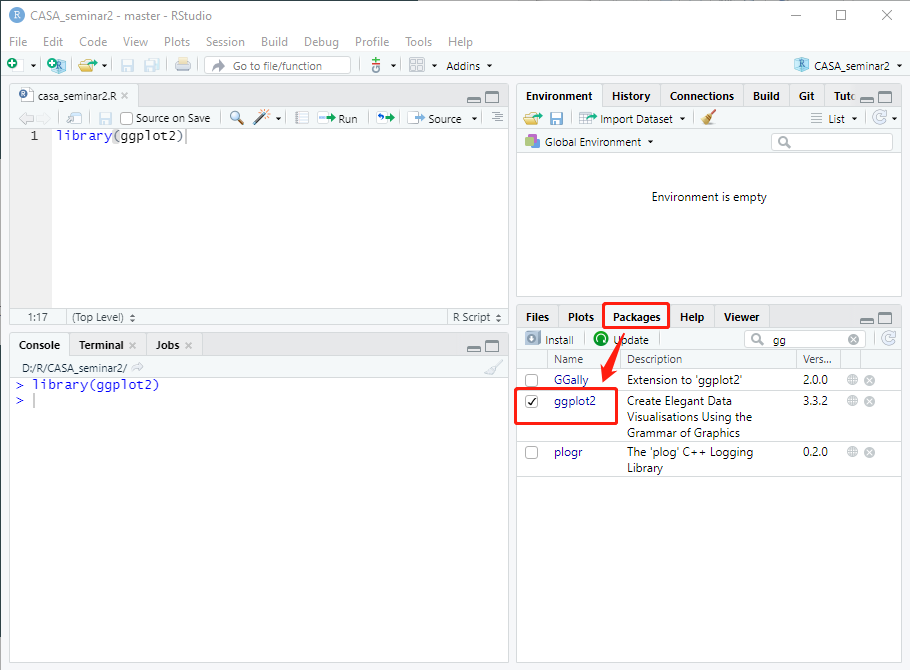
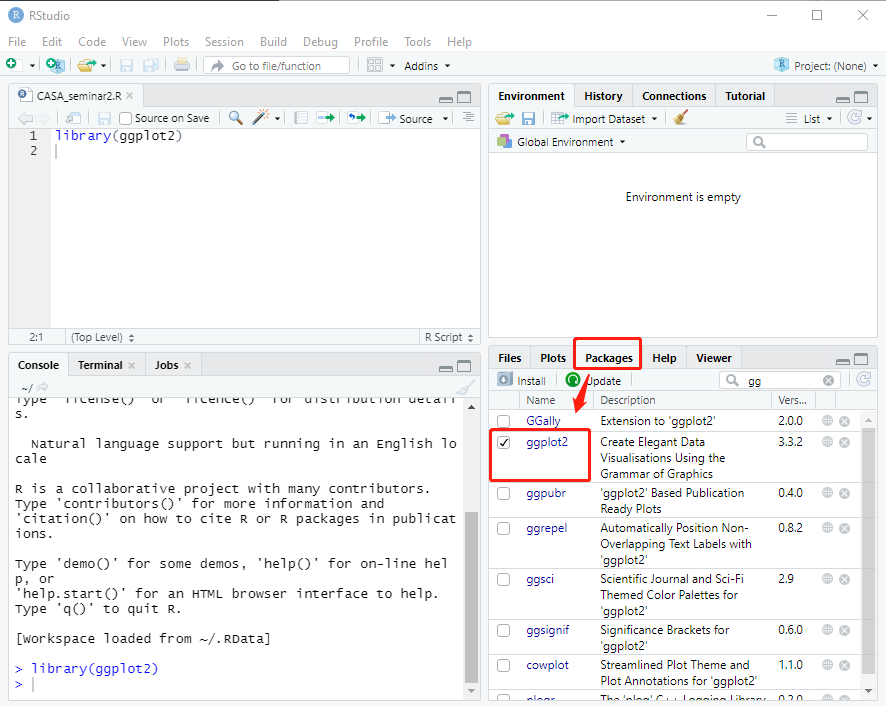
final2

diff --git a/docs/getting-started.html b/docs/getting-started.html
@@ -144,8 +144,8 @@ code span.wa { color: #60a0b0; font-weight: bold; font-style: italic; } /* Warni
 </ul></li>
 <li class="chapter" data-level="3" data-path="recap.html"><a href="recap.html"><i class="fa fa-check"></i><b>3</b> Recap</a></li>
 <li class="chapter" data-level="4" data-path="getting-started.html"><a href="getting-started.html"><i class="fa fa-check"></i><b>4</b> Getting started</a><ul>
-<li class="chapter" data-level="4.1" data-path="getting-started.html"><a href="getting-started.html#installing-ggplot2-package"><i class="fa fa-check"></i><b>4.1</b> Installing ggplot2 package</a></li>
-<li class="chapter" data-level="4.2" data-path="getting-started.html"><a href="getting-started.html#loading-ggplot2-package"><i class="fa fa-check"></i><b>4.2</b> Loading ggplot2 package</a></li>
+<li class="chapter" data-level="4.1" data-path="getting-started.html"><a href="getting-started.html#installing-packages"><i class="fa fa-check"></i><b>4.1</b> Installing packages</a></li>
+<li class="chapter" data-level="4.2" data-path="getting-started.html"><a href="getting-started.html#loading-packages"><i class="fa fa-check"></i><b>4.2</b> Loading packages</a></li>
 <li class="chapter" data-level="4.3" data-path="getting-started.html"><a href="getting-started.html#dataset"><i class="fa fa-check"></i><b>4.3</b> Dataset</a></li>
 </ul></li>
 <li class="chapter" data-level="5" data-path="graphics-with-ggplot2.html"><a href="graphics-with-ggplot2.html"><i class="fa fa-check"></i><b>5</b> Graphics with ggplot2</a><ul>
@@ -200,19 +200,19 @@ code span.wa { color: #60a0b0; font-weight: bold; font-style: italic; } /* Warni
             <section class="normal" id="section-">
 <div id="getting-started" class="section level1">
 <h1><span class="header-section-number">4</span> Getting started</h1>
-<div id="installing-ggplot2-package" class="section level2">
-<h2><span class="header-section-number">4.1</span> Installing ggplot2 package</h2>
-<p>If you have installed ggplot2 package already, you can jump to the next step.</p>
+<div id="installing-packages" class="section level2">
+<h2><span class="header-section-number">4.1</span> Installing packages</h2>
+<p>If you have installed ggplot2 and ggpubr packages already, you can jump to the next step.</p>
 <div class="sourceCode" id="cb1"><pre class="sourceCode r"><code class="sourceCode r"><span id="cb1-1"><a href="getting-started.html#cb1-1"></a><span class="co">#install.packages(&quot;ggplot2&quot;)</span></span>
 <span id="cb1-2"><a href="getting-started.html#cb1-2"></a><span class="co">#install.packages(&quot;ggpubr&quot;)</span></span></code></pre></div>
 </div>
-<div id="loading-ggplot2-package" class="section level2">
-<h2><span class="header-section-number">4.2</span> Loading ggplot2 package</h2>
+<div id="loading-packages" class="section level2">
+<h2><span class="header-section-number">4.2</span> Loading packages</h2>
 <p>Load the packages for today’s seminar.</p>
-<div class="sourceCode" id="cb2"><pre class="sourceCode r"><code class="sourceCode r"><span id="cb2-1"><a href="getting-started.html#cb2-1"></a><span class="co">#load the package for this seminar</span></span>
+<div class="sourceCode" id="cb2"><pre class="sourceCode r"><code class="sourceCode r"><span id="cb2-1"><a href="getting-started.html#cb2-1"></a><span class="co">#load the packages for this seminar</span></span>
 <span id="cb2-2"><a href="getting-started.html#cb2-2"></a><span class="kw">library</span>(ggplot2)</span>
 <span id="cb2-3"><a href="getting-started.html#cb2-3"></a><span class="kw">library</span>(ggpubr)</span></code></pre></div>
-<strong>Note:</strong> Once you have loaded the package successfully, there will be a check mark display before the package under your Packages tab at the bottom right pane.
+<strong>Note:</strong> Once you have loaded the package successfully, there will be a check mark display before the package under your packages tab at the bottom right pane.
 <center>
 <img src="loadpackage.png" />
 </center>

diff --git a/docs/answer.html b/docs/answer.html
@@ -144,8 +144,8 @@ code span.wa { color: #60a0b0; font-weight: bold; font-style: italic; } /* Warni
 </ul></li>
 <li class="chapter" data-level="3" data-path="recap.html"><a href="recap.html"><i class="fa fa-check"></i><b>3</b> Recap</a></li>
 <li class="chapter" data-level="4" data-path="getting-started.html"><a href="getting-started.html"><i class="fa fa-check"></i><b>4</b> Getting started</a><ul>
-<li class="chapter" data-level="4.1" data-path="getting-started.html"><a href="getting-started.html#installing-ggplot2-package"><i class="fa fa-check"></i><b>4.1</b> Installing ggplot2 package</a></li>
-<li class="chapter" data-level="4.2" data-path="getting-started.html"><a href="getting-started.html#loading-ggplot2-package"><i class="fa fa-check"></i><b>4.2</b> Loading ggplot2 package</a></li>
+<li class="chapter" data-level="4.1" data-path="getting-started.html"><a href="getting-started.html#installing-packages"><i class="fa fa-check"></i><b>4.1</b> Installing packages</a></li>
+<li class="chapter" data-level="4.2" data-path="getting-started.html"><a href="getting-started.html#loading-packages"><i class="fa fa-check"></i><b>4.2</b> Loading packages</a></li>
 <li class="chapter" data-level="4.3" data-path="getting-started.html"><a href="getting-started.html#dataset"><i class="fa fa-check"></i><b>4.3</b> Dataset</a></li>
 </ul></li>
 <li class="chapter" data-level="5" data-path="graphics-with-ggplot2.html"><a href="graphics-with-ggplot2.html"><i class="fa fa-check"></i><b>5</b> Graphics with ggplot2</a><ul>

diff --git a/docs/challenges.html b/docs/challenges.html
@@ -144,8 +144,8 @@ code span.wa { color: #60a0b0; font-weight: bold; font-style: italic; } /* Warni
 </ul></li>
 <li class="chapter" data-level="3" data-path="recap.html"><a href="recap.html"><i class="fa fa-check"></i><b>3</b> Recap</a></li>
 <li class="chapter" data-level="4" data-path="getting-started.html"><a href="getting-started.html"><i class="fa fa-check"></i><b>4</b> Getting started</a><ul>
-<li class="chapter" data-level="4.1" data-path="getting-started.html"><a href="getting-started.html#installing-ggplot2-package"><i class="fa fa-check"></i><b>4.1</b> Installing ggplot2 package</a></li>
-<li class="chapter" data-level="4.2" data-path="getting-started.html"><a href="getting-started.html#loading-ggplot2-package"><i class="fa fa-check"></i><b>4.2</b> Loading ggplot2 package</a></li>
+<li class="chapter" data-level="4.1" data-path="getting-started.html"><a href="getting-started.html#installing-packages"><i class="fa fa-check"></i><b>4.1</b> Installing packages</a></li>
+<li class="chapter" data-level="4.2" data-path="getting-started.html"><a href="getting-started.html#loading-packages"><i class="fa fa-check"></i><b>4.2</b> Loading packages</a></li>
 <li class="chapter" data-level="4.3" data-path="getting-started.html"><a href="getting-started.html#dataset"><i class="fa fa-check"></i><b>4.3</b> Dataset</a></li>
 </ul></li>
 <li class="chapter" data-level="5" data-path="graphics-with-ggplot2.html"><a href="graphics-with-ggplot2.html"><i class="fa fa-check"></i><b>5</b> Graphics with ggplot2</a><ul>

diff --git a/docs/graphics-with-ggplot2.html b/docs/graphics-with-ggplot2.html
@@ -144,8 +144,8 @@ code span.wa { color: #60a0b0; font-weight: bold; font-style: italic; } /* Warni
 </ul></li>
 <li class="chapter" data-level="3" data-path="recap.html"><a href="recap.html"><i class="fa fa-check"></i><b>3</b> Recap</a></li>
 <li class="chapter" data-level="4" data-path="getting-started.html"><a href="getting-started.html"><i class="fa fa-check"></i><b>4</b> Getting started</a><ul>
-<li class="chapter" data-level="4.1" data-path="getting-started.html"><a href="getting-started.html#installing-ggplot2-package"><i class="fa fa-check"></i><b>4.1</b> Installing ggplot2 package</a></li>
-<li class="chapter" data-level="4.2" data-path="getting-started.html"><a href="getting-started.html#loading-ggplot2-package"><i class="fa fa-check"></i><b>4.2</b> Loading ggplot2 package</a></li>
+<li class="chapter" data-level="4.1" data-path="getting-started.html"><a href="getting-started.html#installing-packages"><i class="fa fa-check"></i><b>4.1</b> Installing packages</a></li>
+<li class="chapter" data-level="4.2" data-path="getting-started.html"><a href="getting-started.html#loading-packages"><i class="fa fa-check"></i><b>4.2</b> Loading packages</a></li>
 <li class="chapter" data-level="4.3" data-path="getting-started.html"><a href="getting-started.html#dataset"><i class="fa fa-check"></i><b>4.3</b> Dataset</a></li>
 </ul></li>
 <li class="chapter" data-level="5" data-path="graphics-with-ggplot2.html"><a href="graphics-with-ggplot2.html"><i class="fa fa-check"></i><b>5</b> Graphics with ggplot2</a><ul>

diff --git a/docs/index.html b/docs/index.html
@@ -144,8 +144,8 @@ code span.wa { color: #60a0b0; font-weight: bold; font-style: italic; } /* Warni
 </ul></li>
 <li class="chapter" data-level="3" data-path="recap.html"><a href="recap.html"><i class="fa fa-check"></i><b>3</b> Recap</a></li>
 <li class="chapter" data-level="4" data-path="getting-started.html"><a href="getting-started.html"><i class="fa fa-check"></i><b>4</b> Getting started</a><ul>
-<li class="chapter" data-level="4.1" data-path="getting-started.html"><a href="getting-started.html#installing-ggplot2-package"><i class="fa fa-check"></i><b>4.1</b> Installing ggplot2 package</a></li>
-<li class="chapter" data-level="4.2" data-path="getting-started.html"><a href="getting-started.html#loading-ggplot2-package"><i class="fa fa-check"></i><b>4.2</b> Loading ggplot2 package</a></li>
+<li class="chapter" data-level="4.1" data-path="getting-started.html"><a href="getting-started.html#installing-packages"><i class="fa fa-check"></i><b>4.1</b> Installing packages</a></li>
+<li class="chapter" data-level="4.2" data-path="getting-started.html"><a href="getting-started.html#loading-packages"><i class="fa fa-check"></i><b>4.2</b> Loading packages</a></li>
 <li class="chapter" data-level="4.3" data-path="getting-started.html"><a href="getting-started.html#dataset"><i class="fa fa-check"></i><b>4.3</b> Dataset</a></li>
 </ul></li>
 <li class="chapter" data-level="5" data-path="graphics-with-ggplot2.html"><a href="graphics-with-ggplot2.html"><i class="fa fa-check"></i><b>5</b> Graphics with ggplot2</a><ul>

diff --git a/docs/introduction.html b/docs/introduction.html
@@ -144,8 +144,8 @@ code span.wa { color: #60a0b0; font-weight: bold; font-style: italic; } /* Warni
 </ul></li>
 <li class="chapter" data-level="3" data-path="recap.html"><a href="recap.html"><i class="fa fa-check"></i><b>3</b> Recap</a></li>
 <li class="chapter" data-level="4" data-path="getting-started.html"><a href="getting-started.html"><i class="fa fa-check"></i><b>4</b> Getting started</a><ul>
-<li class="chapter" data-level="4.1" data-path="getting-started.html"><a href="getting-started.html#installing-ggplot2-package"><i class="fa fa-check"></i><b>4.1</b> Installing ggplot2 package</a></li>
-<li class="chapter" data-level="4.2" data-path="getting-started.html"><a href="getting-started.html#loading-ggplot2-package"><i class="fa fa-check"></i><b>4.2</b> Loading ggplot2 package</a></li>
+<li class="chapter" data-level="4.1" data-path="getting-started.html"><a href="getting-started.html#installing-packages"><i class="fa fa-check"></i><b>4.1</b> Installing packages</a></li>
+<li class="chapter" data-level="4.2" data-path="getting-started.html"><a href="getting-started.html#loading-packages"><i class="fa fa-check"></i><b>4.2</b> Loading packages</a></li>
 <li class="chapter" data-level="4.3" data-path="getting-started.html"><a href="getting-started.html#dataset"><i class="fa fa-check"></i><b>4.3</b> Dataset</a></li>
 </ul></li>
 <li class="chapter" data-level="5" data-path="graphics-with-ggplot2.html"><a href="graphics-with-ggplot2.html"><i class="fa fa-check"></i><b>5</b> Graphics with ggplot2</a><ul>

diff --git a/docs/q-a.html b/docs/q-a.html
@@ -144,8 +144,8 @@ code span.wa { color: #60a0b0; font-weight: bold; font-style: italic; } /* Warni
 </ul></li>
 <li class="chapter" data-level="3" data-path="recap.html"><a href="recap.html"><i class="fa fa-check"></i><b>3</b> Recap</a></li>
 <li class="chapter" data-level="4" data-path="getting-started.html"><a href="getting-started.html"><i class="fa fa-check"></i><b>4</b> Getting started</a><ul>
-<li class="chapter" data-level="4.1" data-path="getting-started.html"><a href="getting-started.html#installing-ggplot2-package"><i class="fa fa-check"></i><b>4.1</b> Installing ggplot2 package</a></li>
-<li class="chapter" data-level="4.2" data-path="getting-started.html"><a href="getting-started.html#loading-ggplot2-package"><i class="fa fa-check"></i><b>4.2</b> Loading ggplot2 package</a></li>
+<li class="chapter" data-level="4.1" data-path="getting-started.html"><a href="getting-started.html#installing-packages"><i class="fa fa-check"></i><b>4.1</b> Installing packages</a></li>
+<li class="chapter" data-level="4.2" data-path="getting-started.html"><a href="getting-started.html#loading-packages"><i class="fa fa-check"></i><b>4.2</b> Loading packages</a></li>
 <li class="chapter" data-level="4.3" data-path="getting-started.html"><a href="getting-started.html#dataset"><i class="fa fa-check"></i><b>4.3</b> Dataset</a></li>
 </ul></li>
 <li class="chapter" data-level="5" data-path="graphics-with-ggplot2.html"><a href="graphics-with-ggplot2.html"><i class="fa fa-check"></i><b>5</b> Graphics with ggplot2</a><ul>

diff --git a/docs/recap.html b/docs/recap.html
@@ -144,8 +144,8 @@ code span.wa { color: #60a0b0; font-weight: bold; font-style: italic; } /* Warni
 </ul></li>
 <li class="chapter" data-level="3" data-path="recap.html"><a href="recap.html"><i class="fa fa-check"></i><b>3</b> Recap</a></li>
 <li class="chapter" data-level="4" data-path="getting-started.html"><a href="getting-started.html"><i class="fa fa-check"></i><b>4</b> Getting started</a><ul>
-<li class="chapter" data-level="4.1" data-path="getting-started.html"><a href="getting-started.html#installing-ggplot2-package"><i class="fa fa-check"></i><b>4.1</b> Installing ggplot2 package</a></li>
-<li class="chapter" data-level="4.2" data-path="getting-started.html"><a href="getting-started.html#loading-ggplot2-package"><i class="fa fa-check"></i><b>4.2</b> Loading ggplot2 package</a></li>
+<li class="chapter" data-level="4.1" data-path="getting-started.html"><a href="getting-started.html#installing-packages"><i class="fa fa-check"></i><b>4.1</b> Installing packages</a></li>
+<li class="chapter" data-level="4.2" data-path="getting-started.html"><a href="getting-started.html#loading-packages"><i class="fa fa-check"></i><b>4.2</b> Loading packages</a></li>
 <li class="chapter" data-level="4.3" data-path="getting-started.html"><a href="getting-started.html#dataset"><i class="fa fa-check"></i><b>4.3</b> Dataset</a></li>
 </ul></li>
 <li class="chapter" data-level="5" data-path="graphics-with-ggplot2.html"><a href="graphics-with-ggplot2.html"><i class="fa fa-check"></i><b>5</b> Graphics with ggplot2</a><ul>

diff --git a/docs/recommended-resources.html b/docs/recommended-resources.html
@@ -144,8 +144,8 @@ code span.wa { color: #60a0b0; font-weight: bold; font-style: italic; } /* Warni
 </ul></li>
 <li class="chapter" data-level="3" data-path="recap.html"><a href="recap.html"><i class="fa fa-check"></i><b>3</b> Recap</a></li>
 <li class="chapter" data-level="4" data-path="getting-started.html"><a href="getting-started.html"><i class="fa fa-check"></i><b>4</b> Getting started</a><ul>
-<li class="chapter" data-level="4.1" data-path="getting-started.html"><a href="getting-started.html#installing-ggplot2-package"><i class="fa fa-check"></i><b>4.1</b> Installing ggplot2 package</a></li>
-<li class="chapter" data-level="4.2" data-path="getting-started.html"><a href="getting-started.html#loading-ggplot2-package"><i class="fa fa-check"></i><b>4.2</b> Loading ggplot2 package</a></li>
+<li class="chapter" data-level="4.1" data-path="getting-started.html"><a href="getting-started.html#installing-packages"><i class="fa fa-check"></i><b>4.1</b> Installing packages</a></li>
+<li class="chapter" data-level="4.2" data-path="getting-started.html"><a href="getting-started.html#loading-packages"><i class="fa fa-check"></i><b>4.2</b> Loading packages</a></li>
 <li class="chapter" data-level="4.3" data-path="getting-started.html"><a href="getting-started.html#dataset"><i class="fa fa-check"></i><b>4.3</b> Dataset</a></li>
 </ul></li>
 <li class="chapter" data-level="5" data-path="graphics-with-ggplot2.html"><a href="graphics-with-ggplot2.html"><i class="fa fa-check"></i><b>5</b> Graphics with ggplot2</a><ul>
